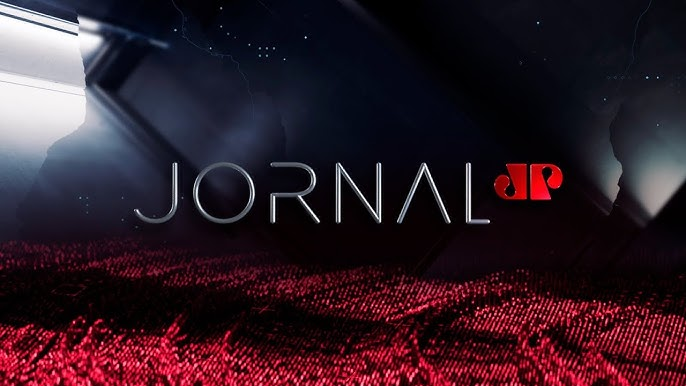
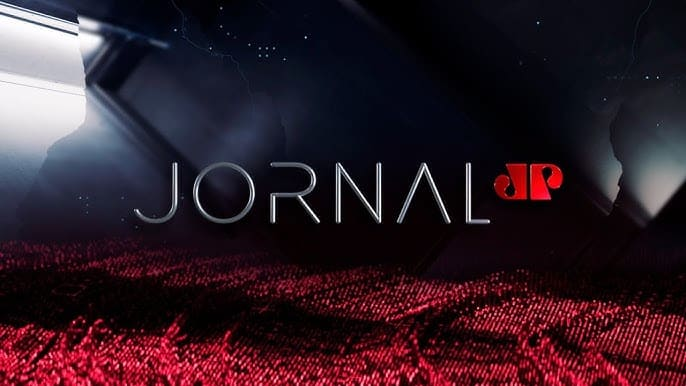
image optimization

diff --git a/js/main.js b/js/main.js
@@ -107,75 +107,18 @@ let swiper = new Swiper('.slide-container', {
   },
 });
 
-// FORM
-
-const form = document.getElementById('form');
-const inputs = document.querySelectorAll('.required');
-const spans = document.querySelectorAll('.span-required');
-const phoneRegex = /^\d{11}$/;
-const emailRegex = /^[^\s@]+@[^\s@]+\.[^\s@]+$/;
-
-function setError(index) {
-  inputs[index].style.border = '2px solid #e63636';
-  spans[index].style.display = 'block';
-}
-
-function removeError(index) {
-  inputs[index].style.border = '';
-  spans[index].style.display = 'none';
-}
-
-function nameValidate() {
-  if (inputs[0].value.length < 3) {
-    setError(0);
-  } else {
-    removeError(0);
-  }
-}
-
-function phoneValidate() {
-  if (phoneRegex.test(inputs[1].value)) {
-    removeError(1);
-  } else {
-    setError(1);
-  }
-}
-
-function emailValidate() {
-  if (emailRegex.test(inputs[2].value)) {
-    removeError(2);
-  } else {
-    setError(2);
-  }
-}
-
-function validateForm() {
-  nameValidate();
-  emailValidate();
-  phoneValidate();
-
-  const termsAccepted = termsValidate();
-
-  return !(
-    inputs[0].style.border ||
-    inputs[1].style.border ||
-    inputs[2].style.border ||
-    !termsAccepted
-  );
-}
-
 // LINGUAGEM
 
 function changeLanguage(languageCode) {
   switch (languageCode) {
-      case 'en-US':
-          window.location.href = 'index_en.html';
-          break;
-      case 'es-ES':
-          window.location.href = 'index_es.html';
-          break;
-      default:
-          window.location.href = 'index.html';
-          break;
+    case 'en-US':
+      window.location.href = 'index_en.html';
+      break;
+    case 'es-ES':
+      window.location.href = 'index_es.html';
+      break;
+    default:
+      window.location.href = 'index.html';
+      break;
   }
 }

diff --git a/index.html b/index.html
@@ -6,7 +6,7 @@
   <meta name="viewport" content="width=device-width, initial-scale=1.0">
   <link rel="stylesheet" href="css/style.css">
   <link rel="stylesheet" href="./css/responsive.css">
-  <script src="https://kit.fontawesome.com/b536156055.js" crossorigin="anonymous"></script>
+  <script src="https://kit.fontawesome.com/7d03cfc5b1.js" crossorigin="anonymous"></script>
   <link href='https://unpkg.com/boxicons@2.0.9/css/boxicons.min.css' rel='stylesheet'>
   <link rel="stylesheet" href="css/swiper-bundle.min.css" />
   <link rel="shortcut icon" href="./assets/images/gm-favicon.ico" type="image/x-icon">
@@ -189,7 +189,7 @@
 
     <section id="cta">
       <h2>Transforme seu negócio com <span>inteligência artificial</span>.</h2>
-      <a href="#" class="hero-button" role="button">Entre em contato</a>
+      <a href="#contact" class="hero-button" role="button">Entre em contato</a>
     </section>
 
     <section id="benefits">

diff --git a/index_es.html b/index_es.html
@@ -6,7 +6,7 @@
   <meta name="viewport" content="width=device-width, initial-scale=1.0">
   <link rel="stylesheet" href="css/style.css">
   <link rel="stylesheet" href="./css/responsive.css">
-  <script src="https://kit.fontawesome.com/b536156055.js" crossorigin="anonymous"></script>
+  <script src="https://kit.fontawesome.com/7d03cfc5b1.js" crossorigin="anonymous"></script>
   <link href='https://unpkg.com/boxicons@2.0.9/css/boxicons.min.css' rel='stylesheet'>
   <link rel="stylesheet" href="css/swiper-bundle.min.css" />
   <link rel="shortcut icon" href="./assets/images/gm-favicon.ico" type="image/x-icon">
@@ -193,7 +193,7 @@
 
     <section id="cta">
       <h2>Transforma tu negocio con <span>inteligencia artificial</span>.</h2>
-      <a href="#" class="hero-button" role="button">Entre en contacto</a>
+      <a href="#contact" class="hero-button" role="button">Entre en contacto</a>
     </section>
 
     <section id="benefits">

diff --git a/index_en.html b/index_en.html
@@ -6,7 +6,7 @@
   <meta name="viewport" content="width=device-width, initial-scale=1.0">
   <link rel="stylesheet" href="css/style.css">
   <link rel="stylesheet" href="./css/responsive.css">
-  <script src="https://kit.fontawesome.com/b536156055.js" crossorigin="anonymous"></script>
+  <script src="https://kit.fontawesome.com/7d03cfc5b1.js" crossorigin="anonymous"></script>
   <link href='https://unpkg.com/boxicons@2.0.9/css/boxicons.min.css' rel='stylesheet'>
   <link rel="stylesheet" href="css/swiper-bundle.min.css" />
   <link rel="shortcut icon" href="./assets/images/gm-favicon.ico" type="image/x-icon">
@@ -191,7 +191,7 @@
 
     <section id="cta">
       <h2>Transform your business with <span>artificial intelligence</span>.</h2>
-      <a href="#" class="hero-button" role="button">Start here</a>
+      <a href="#contact" class="hero-button" role="button">Start here</a>
     </section>
 
     <section id="benefits">
